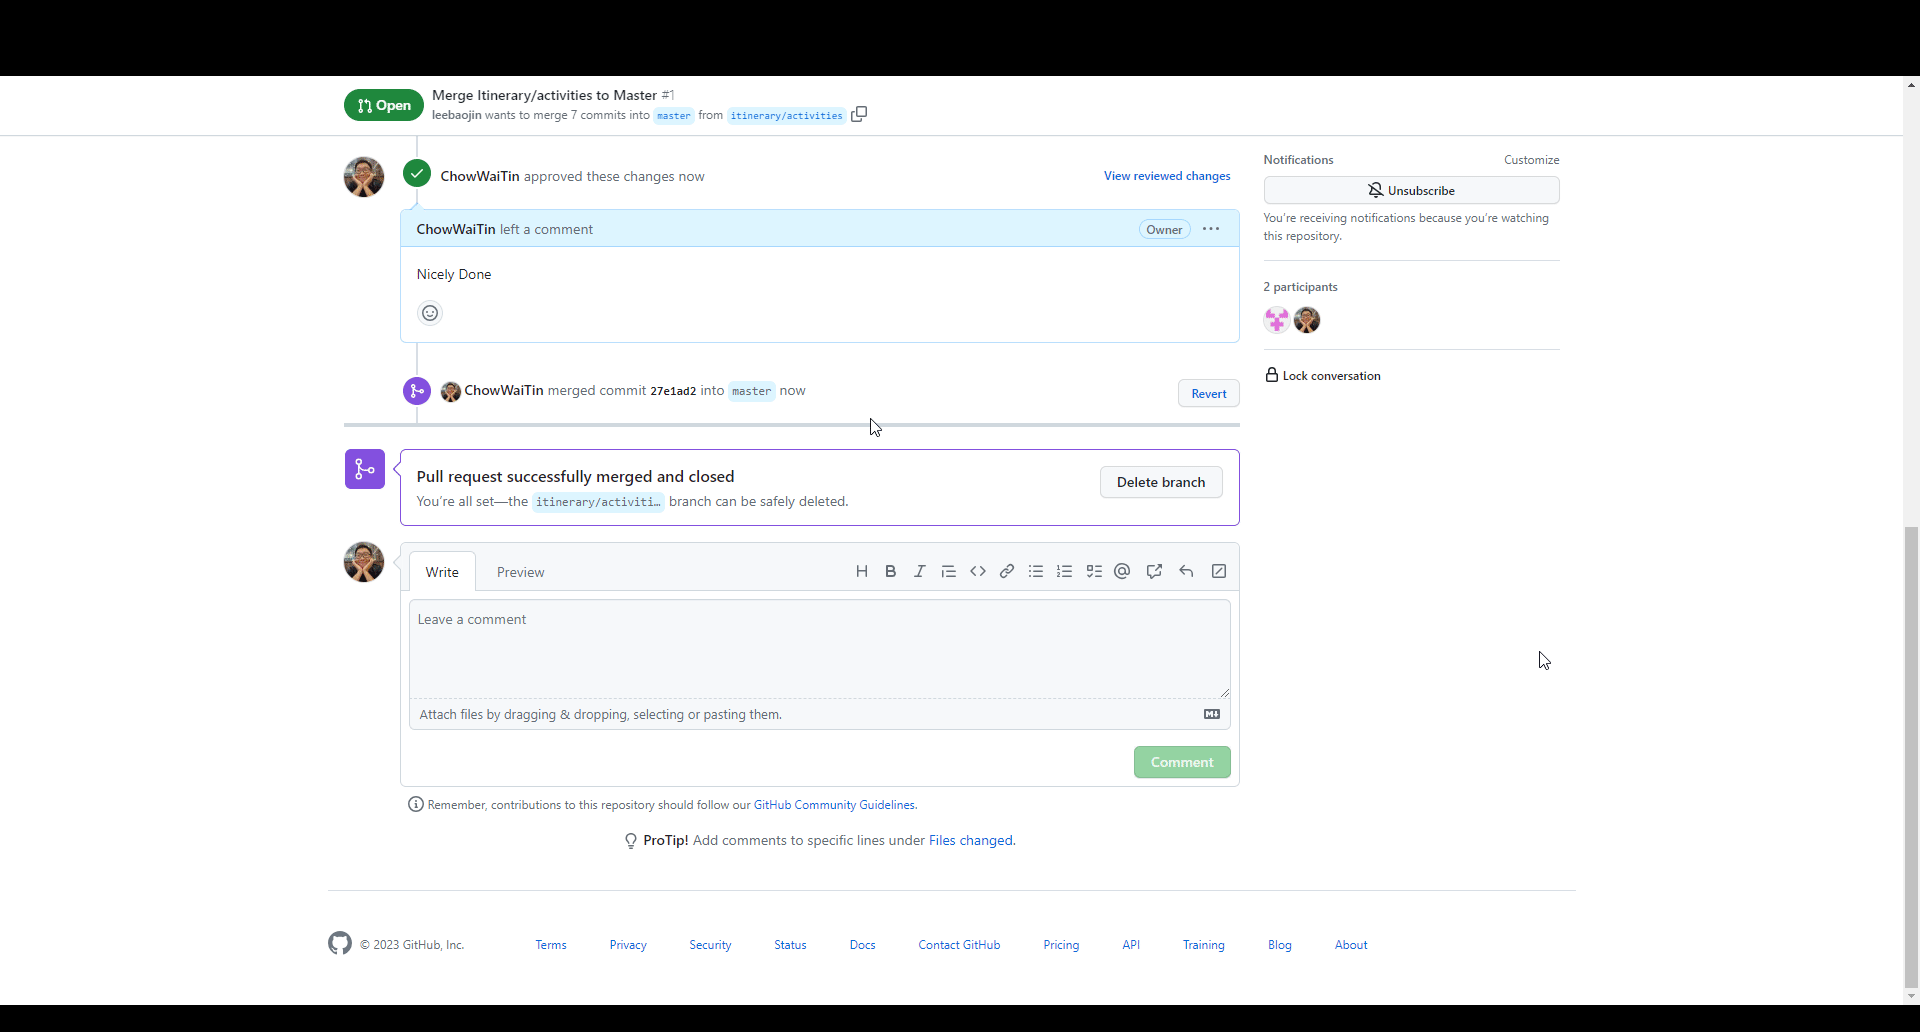
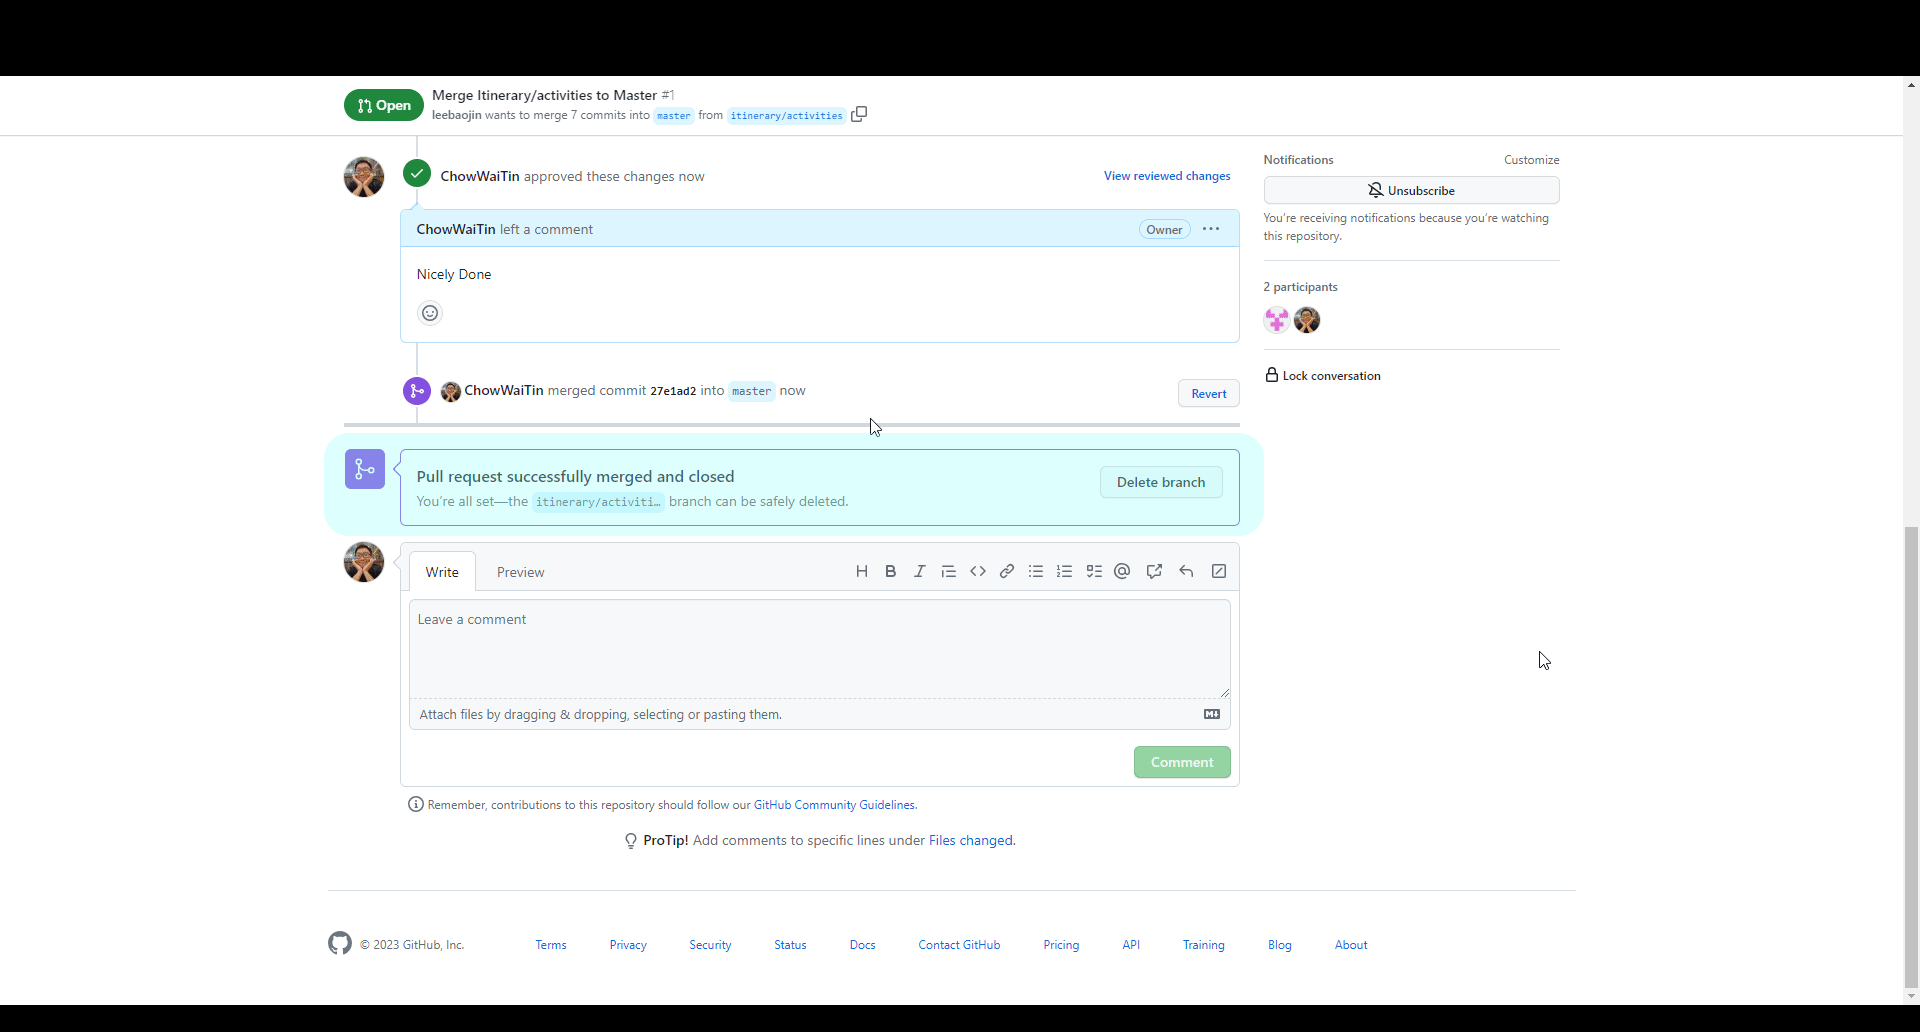
WIP: 5._Making_A_Pull_Request.md

Changed region(s): [[0.1562, 0.4031, 0.6562, 0.5271]]

diff --git a/Learning Git with Real-Life Applications/4. Collaboration as A Team/5._Making_A_Pull_Request.md b/Learning Git with Real-Life Applications/4. Collaboration as A Team/5._Making_A_Pull_Request.md
@@ -160,7 +160,12 @@
 
         ![Changes Approved Status](../images/4_5/4_5_changes_approved.png)
 
-    - Developer B proceeds to confirm the merge by clicking on the ![Confirm Merge Btn](../images/4_5) and waits for the merge to be completed (highlighted in light blue)
+    - Developer B proceeds to confirm the merge by clicking on the ![Confirm Merge Btn](../images/4_5/4_5_Confirm_Merge_Btn.png) and waits for the merge to be completed (highlighted in light blue).
 
-        ![Changes Approved Status](../images/4_5/4_5_changes_approved.png)
+        ![Wait for Merge Complete](../images/4_5/4_5_Click_Confirm_Merge_Btn.png)
 
+        ![Wait for Merge Complete](../images/4_5/4_5_Merging.png)
+
+    - After the merge has been completed, Developer B will be notified that the Pull Request has been successfully merged and closed (highlighted in light blue).
+
+        ![Pull Request Merge Complete](../images/4_5/4_5_Merged_finished_Pull_request.png)
